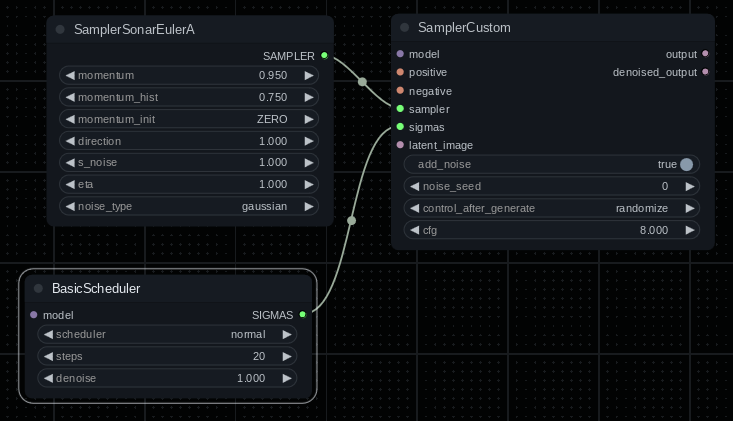
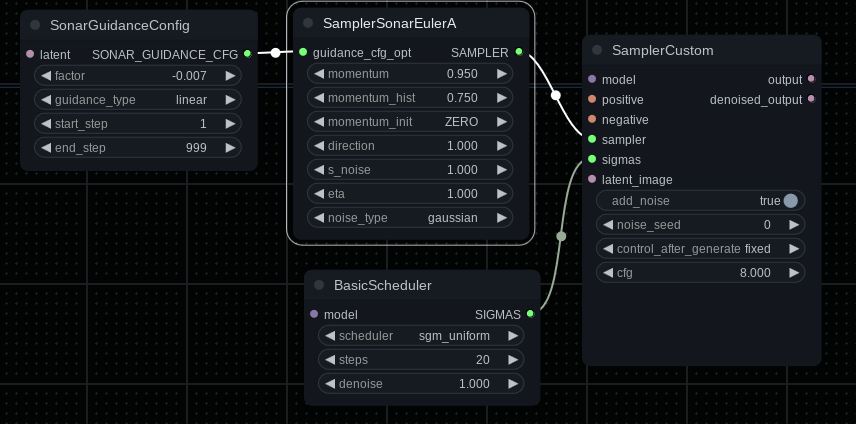
Update README to reflect recent changes

diff --git a/README.md b/README.md
@@ -1,6 +1,6 @@
 # ComfyUI-sonar
 
-Extremely WIP and untested implementation of Sonar sampling for [ComfyUI](https://github.com/comfyanonymous/ComfyUI). Currently it may not be even close to working _properly_ but it does produce pretty reasonable results.
+Very WIP and not very well tested implementation of Sonar sampling for [ComfyUI](https://github.com/comfyanonymous/ComfyUI). Currently it may not be even close to working _properly_ but it does produce pretty reasonable results.
 
 Only supports Euler and Euler Ancestral sampling.
 
@@ -20,6 +20,13 @@ The most flexible way to use this is with a custom sampler:
 
 You can also just choose `sonar_euler` or `sonar_euler_ancestral` from the normal samplers list (will use the default settings). I personally recommend using the custom sampler approach and the ancestral version.
 
+## Nodes
+
+1. `SamplerSonarEuler` — Custom sampler node that combines Euler sampling and momentum and optionally guidance. A bit boring compared to the ancestral version but it has predictability going for it.
+2. `SamplerSonarEulerAncestral` — Ancestral version of the above. Same features, just with ancestral Euler.
+3. `SonarGuidanceConfig` — You can optionally plug this into the Sonar sampler nodes. See the [Guidance](#guidance) section below.
+4. `NoisyLatentLike` — If you give it a latent (or latent batch) it'll return a noisy latent of the same shape. Allows specifying all the custom noise types except `brownian` which has some special requirements. Provided just because the noise generation functions are conveniently available. You can also use this as a reference latent with `SonarGuidanceConfig` node and depending on the strength it can act like variation seed (you'd change the seed in the `NoisyLatentLike` node). *Note*: The seed stuff may or may not work correctly.
+
 ## Parameters
 
 Very abbreviated section. The init type can make a big difference. If you use `RANDOM` you can get away with setting `direction` to high values (like up to `2.25` or so) and absurdly low values (like `-30.0`). It's also possible to set `momentum` and `momentum_hist` to negative values, although whether it's a good idea...
@@ -30,13 +37,13 @@ You can try the `SamplerSonarNaive` sampler which has an optional latent input. 
 
 It is possible to set the start and end steps guidance is activate. Rather than setting a low guidance and using it for the whole generation, it's also possible to set high guidance and end it after a relatively low number of steps.
 
-Without guidance it should basically work the same as the ancestral Euler version. There are some example images in the examples section below.
+Without guidance it should basically work the same as the ancestral Euler version. There are some example images in the [Examples](#examples) section below.
 
 **Note**: The reference latent needs to be the same size as the one being sampled. Also note that step numbers in the step range are 1-based and inclusive, so 1 is the first step.
 
 ## Noise
 
-I basically just copied a bunch of noise functions without really knowing what they do. The main thing I can say is they produce a semi-reasonable result and it's different from the other noise samplers. See credits below.
+I basically just copied a bunch of noise functions without really knowing what they do. The main thing I can say is they produce a semi-reasonable result and it's different from the other noise samplers. See [Credits](#credits) below.
 
 1. `gaussian`: This is the default noise type.
 2. `uniform`: Might enhance background details?
@@ -47,7 +54,7 @@ I basically just copied a bunch of noise functions without really knowing what t
 7. `pink`
 8. `highres_pyramid`: Not extensively tested, but it is slower than the other noise types. I would guess it does something like enhance details.
 
-You can scroll down to the the examples section near the bottom to see some example generations with different noise types.
+You can scroll down to the the [Examples](#examples) section near the bottom to see some example generations with different noise types.
 
 ## Credits
 
